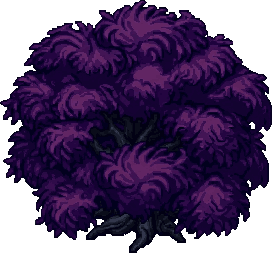
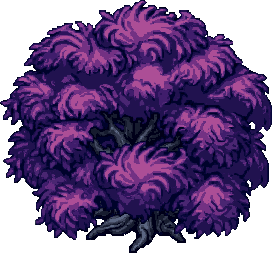
Bioma viola: colori ravvivati
Le scale di colore del disegno restano, ma i toni medi e chiari salgono
(il contorno resta scuro), piu' saturi, ombre un poco verso il blu e
luci verso il caldo; i colori quasi uguali diventano uno (da 32 a circa
20 per pezzo). Solo i pezzi del bioma viola e l'albero magenta.

Claude-Session: https://claude.ai/code/session_01AE7uzpDH1Lo1PHb29aXJxZ

diff --git a/strumenti/livelli/alberi_magici.py b/strumenti/livelli/alberi_magici.py
@@ -11,7 +11,10 @@
 #   2. i buchi di 1-2 pixel chiusi dentro si riempiono;
 #   3. l'alone del JPG sul bordo (pixel schiariti dal bianco) prende il colore
 #      del vicino dentro;
-#   4. una tavolozza di 32 colori per albero, via i pixel soli.
+#   4. una tavolozza di 32 colori per albero, via i pixel soli;
+#   5. (il bioma viola) i colori ravvivati: le scale del disegno restano, ma
+#      i toni medi e chiari salgono, piu' saturi, le ombre un poco verso il
+#      blu e le luci verso il caldo; i colori quasi uguali diventano uno.
 # Scrive art/livelli/pezzi/alberi/<nome>.png e le loro voci nel catalogo.
 import json
 import os
@@ -41,6 +44,79 @@ ALBERI = (
     ('bioma_viola', 'baccelli_luminosi', (780, 425, 985, 712), 2.93),
     ('bioma_viola', 'sfere_luminose', (1120, 507, 1343, 659), 2.93),
 )
+# i fogli coi colori ravvivati (5.)
+RAVVIVATI = {'albero_magenta', 'bioma_viola'}
+
+
+# ---- i colori in OKLab (la luce e la tinta come le vede l'occhio)
+_M1 = np.array([[0.4122214708, 0.5363325363, 0.0514459929], [0.2119034982, 0.6806995451, 0.1073969566],
+                [0.0883024619, 0.2817188376, 0.6299787005]])
+_M2 = np.array([[0.2104542553, 0.7936177850, -0.0040720468], [1.9779984951, -2.4285922050, 0.4505937099],
+                [0.0259040371, 0.7827717662, -0.8086757660]])
+_M1i, _M2i = np.linalg.inv(_M1), np.linalg.inv(_M2)
+BLU, GIALLO = np.deg2rad(264.0), np.deg2rad(100.0)
+
+
+def in_lab(rgb):
+    c = rgb / 255.0
+    lin = np.where(c <= 0.04045, c / 12.92, ((c + 0.055) / 1.055) ** 2.4)
+    return np.cbrt(lin @ _M1.T) @ _M2.T
+
+
+def da_lch(L, C, h):
+    # il colore sullo schermo; se esce dai colori possibili, meno saturo
+    for _ in range(40):
+        lin = ((np.array([L, C * np.cos(h), C * np.sin(h)]) @ _M2i.T) ** 3) @ _M1i.T
+        if (lin >= -1e-4).all() and (lin <= 1 + 1e-4).all():
+            break
+        C *= 0.93
+    lin = np.clip(lin, 0, 1)
+    return np.round(np.where(lin <= 0.0031308, lin * 12.92, 1.055 * lin ** (1 / 2.4) - 0.055) * 255.0)
+
+
+def verso(h, meta, quanto):
+    # gira la tinta h verso meta, al massimo di `quanto`, per la via corta
+    d = (meta - h + np.pi) % (2 * np.pi) - np.pi
+    return h + np.sign(d) * min(abs(d), quanto)
+
+
+def ravviva(a):
+    m = a[..., 3] > 0
+    cols, inv = np.unique(a[m][:, :3], axis=0, return_inverse=True)
+    inv = inv.ravel()
+    cnt = np.bincount(inv)
+    lab = in_lab(cols.astype(float))
+    L, C, H = lab[:, 0], np.hypot(lab[:, 1], lab[:, 2]), np.arctan2(lab[:, 2], lab[:, 1])
+    tutti = np.repeat(L, cnt)
+    lmin, lmax = np.percentile(tutti, 1), np.percentile(tutti, 99.5)
+    # il piu' chiaro sale (di piu' se il pezzo e' scuro), il contorno resta
+    lmax2 = min(0.92, lmax + 0.22 * (1 - lmax) + 0.06)
+    nuovi = []
+    for i in range(len(cols)):
+        t = np.clip((L[i] - lmin) / max(1e-3, lmax - lmin), 0, 1.2)
+        L2 = L[i] if L[i] < lmin else min(0.98, lmin + t ** 0.85 * (lmax2 - lmin))
+        t = min(1.0, t)
+        C2 = C[i] * max(1.0, 1.25 * (1 - 0.6 * max(0.0, (L2 - 0.8) / 0.2)))   # i quasi bianchi meno
+        if t < 0.5:
+            h2 = verso(H[i], BLU, np.deg2rad(10) * (1 - 2 * t))
+        else:
+            h2 = verso(H[i], GIALLO, np.deg2rad(12) * (2 * t - 1) * min(1.0, C[i] / 0.04))
+        nuovi.append(da_lch(L2, C2, h2))
+    nuovi = np.array(nuovi)
+    # i colori nuovi quasi uguali: uno solo, quello con piu' pixel
+    lab2 = in_lab(nuovi)
+    tiene = []
+    dove = np.arange(len(cols))
+    for i in np.argsort(-cnt):
+        for j in tiene:
+            if np.linalg.norm(lab2[i] - lab2[j]) < 0.03:
+                dove[i] = j
+                break
+        else:
+            tiene.append(i)
+    o = a.copy()
+    o[m, :3] = nuovi[dove][inv].astype(np.uint8)
+    return o
 
 
 def griglia(prof, passo):
@@ -146,6 +222,9 @@ for foglio, nome, (x0, y0, x1, y1), passo in ALBERI:
                 r[y, x] = piu
     fatto = np.zeros((h, w, 4), np.uint8)
     fatto[m, :3] = TAV[r[m]]; fatto[m, 3] = 255
+    # 5. i colori ravvivati
+    if foglio in RAVVIVATI:
+        fatto = ravviva(fatto)
     Image.fromarray(fatto).save(os.path.join(cartella, nome + '.png'))
     # il piede: in fondo, al centro delle radici
     giu = np.nonzero(m[h - 6:])[1]
